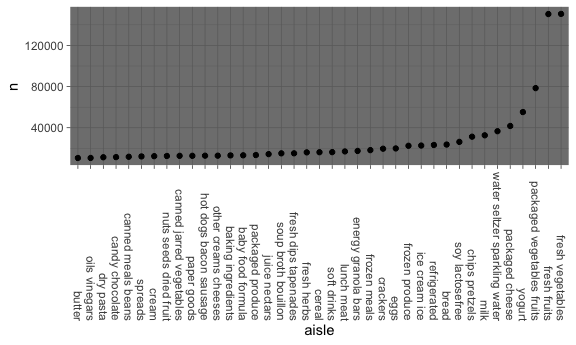
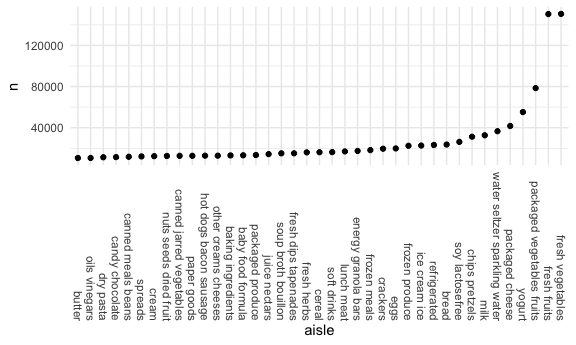
runs all chunks and knits successfully, final check for all questions answered and for minor edits

diff --git a/p8105_hw3_eh2928.md b/p8105_hw3_eh2928.md
@@ -1,7 +1,7 @@
 p8105\_hw3\_eh2928
 ================
 Emil Hafeez (eh2928)
-2020-10-09
+2020-10-10
 
 \#Basic Setup
 
@@ -12,19 +12,20 @@ knitr::opts_chunk$set(echo = TRUE)
 library(tidyverse)
 ```
 
-    ## ── Attaching packages ───────────────────────────────────────────────────────────────────────────────────────────────────────────── tidyverse 1.3.0 ──
+    ## ── Attaching packages ──────────────────────────────────────────────────────────────────────────────────────────────────────────────────────────────────────────────────────────────────────────────────────────────────────────────────────── tidyverse 1.3.0 ──
 
     ## ✓ ggplot2 3.3.2     ✓ purrr   0.3.4
     ## ✓ tibble  3.0.3     ✓ dplyr   1.0.2
     ## ✓ tidyr   1.1.2     ✓ stringr 1.4.0
     ## ✓ readr   1.3.1     ✓ forcats 0.5.0
 
-    ## ── Conflicts ──────────────────────────────────────────────────────────────────────────────────────────────────────────────── tidyverse_conflicts() ──
+    ## ── Conflicts ─────────────────────────────────────────────────────────────────────────────────────────────────────────────────────────────────────────────────────────────────────────────────────────────────────────────────────────── tidyverse_conflicts() ──
     ## x dplyr::filter() masks stats::filter()
     ## x dplyr::lag()    masks stats::lag()
 
 ``` r
 library(p8105.datasets)
+library(patchwork)
 
 #Prep for neater output
 knitr::opts_chunk$set(
@@ -34,7 +35,7 @@ knitr::opts_chunk$set(
 )
 
 #Trying a darker theme, at least at first
-theme_set(theme_dark() + theme(legend.position = "bottom"))
+theme_set(theme_minimal() + theme(legend.position = "bottom"))
 options(
   ggplot2.continuous.colour = "viridis",
   ggplot2.continuous.fill = "viridis"
@@ -286,18 +287,23 @@ data("ny_noaa")
 ```
 
 ``` r
+ny_noaa =
 ny_noaa %>% 
   janitor::clean_names() %>% 
   separate(date, into = c("year", "month", "day_of_month")) %>% 
   mutate(
         tmax = as.numeric(tmax),
-        tmin = as.numeric(tmin)
+        tmin = as.numeric(tmin),
+        year = as.numeric(year),
+        month = as.numeric(month),
+        day_of_month = as.numeric(day_of_month)
         ) %>% 
   mutate(
         prcp = (prcp / 10),
         tmax = (tmax / 10),
         tmin = (tmin / 10),
-        ) %>% 
+        )
+ny_noaa %>% 
   count(snow) %>% 
     arrange(desc(n))
 ```
@@ -323,8 +329,8 @@ collected, in conjunction with the date of that observation. Then, there
 is the total precipitation (in tenths of millimeters), specifically snow
 characteristics, and the temperature minimum and maximum (in celsius).
 
-The most commonly observed snowfall values is 0 (since most days in
-these locations, it doesn’t snow\!). Then, unfortunately, there are a
+The most commonly observed snowfall value by far is 0 (since most days
+in these locations, it doesn’t snow\!). Then, unfortunately, there are a
 lot of missing values for snowfall (potentially measurement error,
 potentially a null value), and then various millimeter values.
 
@@ -334,4 +340,72 @@ Make a two-panel plot showing the average max temperature in January and
 in July in each station across years. Is there any observable /
 interpretable structure? Any outliers?
 
-mean\_tmax = mean(tmax, na.rm = TRUE)
+``` r
+ggp_max_temps =
+ny_noaa %>% 
+  filter(month %in% c(1 , 7)) %>% 
+  group_by(id, year, month) %>%
+  summarize(mean_tmax = mean(tmax, na.rm = TRUE)) %>%
+  ggplot(aes(x = year, y = mean_tmax, group = id)) + 
+  geom_point(aes(color = mean_tmax), alpha = .5) + 
+  facet_grid(. ~ month) +
+  labs(
+    title = "Mean Maximum Temperatures in NY State, January and July",
+    x = "Year",
+    y = "Mean Max Temperature (in °C)",
+    caption = "From NY_NOAA Dataset")
+```
+
+    ## `summarise()` regrouping output by 'id', 'year' (override with `.groups` argument)
+
+The graph shows a distinctly higher average max temperature in July
+versus January, and a few outliers in both months. There appear to be
+more max temperature irregularities in January than in July;
+additionally, January shows a few uncharacteristically warm days and
+July shows a few uncharacteristically colder days. Overall, of concern
+and not unrelated to narratives regarding global warming trends.
+
+Finally, we make a two-panel plot showing tmax vs tmin for the full
+dataset, and then make a plot showing the distribution of snowfall
+values greater than 0 and less than 100.
+
+``` r
+ggp_max_min_hex = 
+ny_noaa %>% 
+  select(id, year, month, tmax, tmin) %>%
+  pivot_longer(
+      tmax:tmin,
+      names_to = "observation",
+      values_to = "temperature"
+              ) %>% 
+  ggplot(aes(x = year, y = temperature)) + 
+  geom_hex(aes(color = temperature), alpha = .5) + 
+  facet_grid(. ~ observation) +
+  labs(
+    title = "Distributions of Maximum and Minimum Temperatures in NY State, 1981-2010",
+    x = "Year",
+    y = "Mean Max Temperature (in °C)",
+    caption = "From NY_NOAA Dataset") +
+  theme(plot.title = element_text(hjust = .5))
+```
+
+``` r
+ggp_snow = 
+ny_noaa %>% 
+  select(id, year, month, tmax, tmin, snow) %>%
+  filter(snow > 0, snow < 100) %>% 
+  ggplot(aes(x = year, y = snow, color = year, group = year)) + 
+  geom_boxplot(alpha = .4) + 
+  labs(
+    title = "Distributions of Snowfall in NY State, 1981-2010",
+    x = "Year",
+    y = "Snowfall in millimeters",
+    caption = "From NY_NOAA Dataset") +
+  theme(plot.title = element_text(hjust = .5))
+
+ggp_max_min_hex / ggp_snow
+```
+
+    ## Warning: Removed 2268778 rows containing non-finite values (stat_binhex).
+
+<img src="p8105_hw3_eh2928_files/figure-gfm/snowfall dists-1.png" width="90%" />
